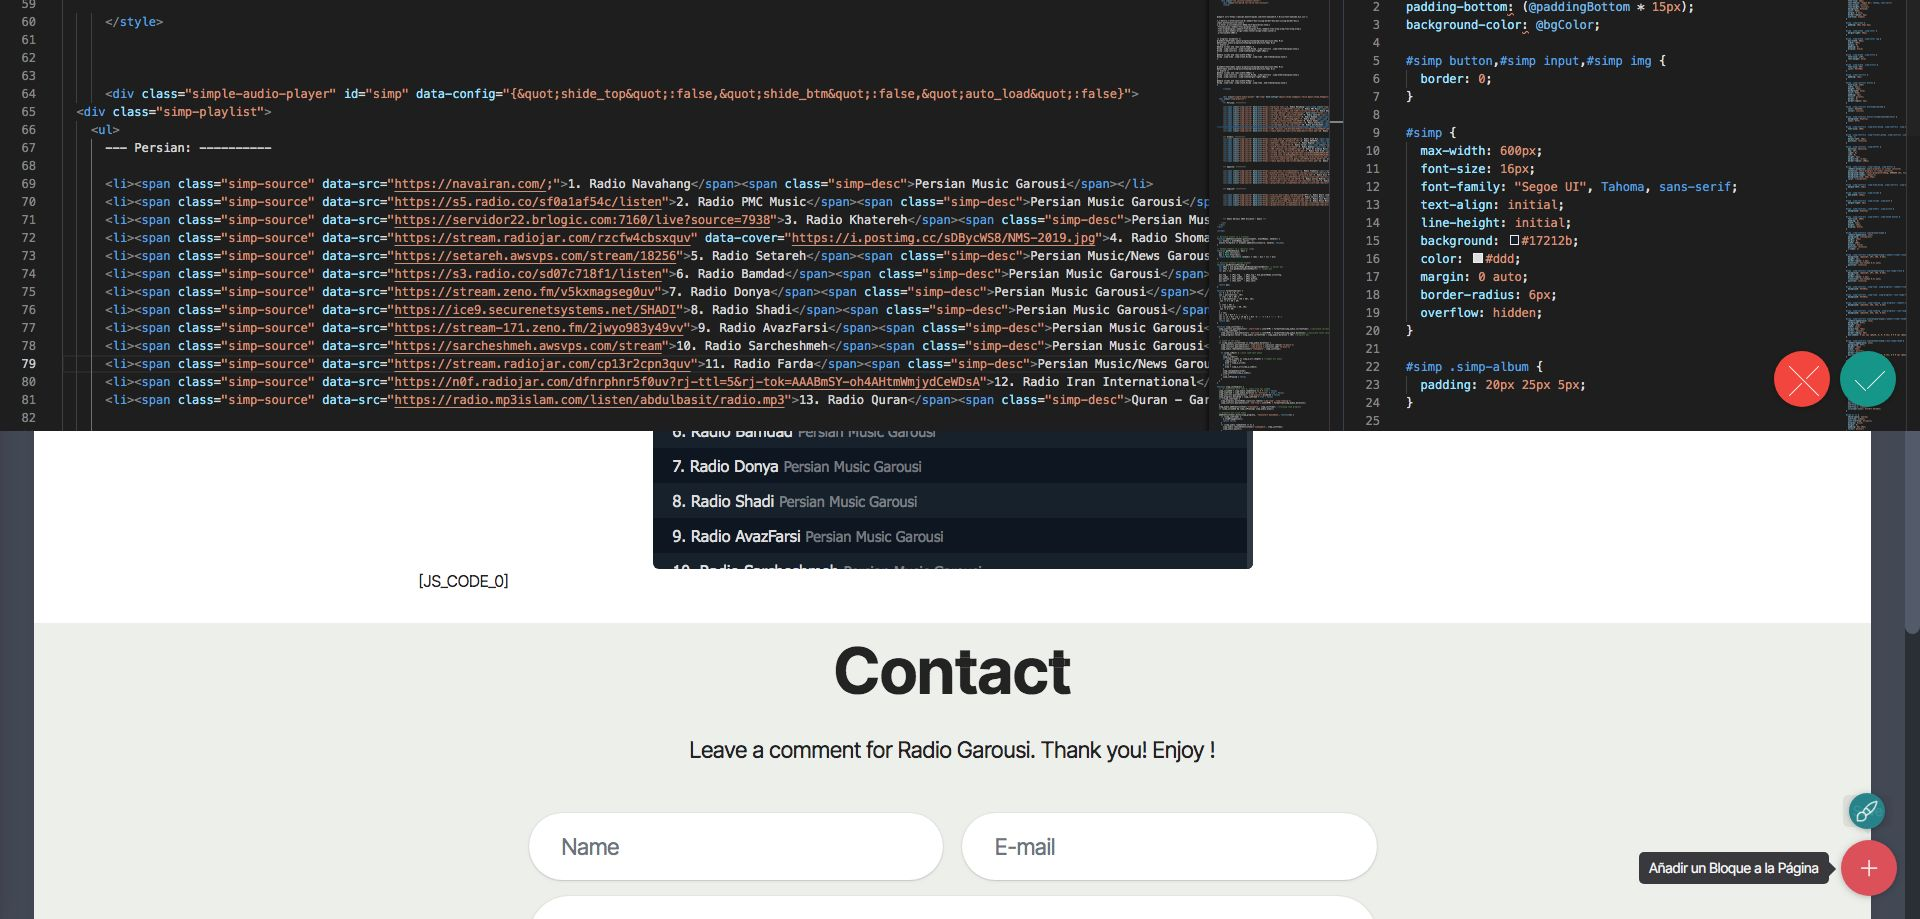
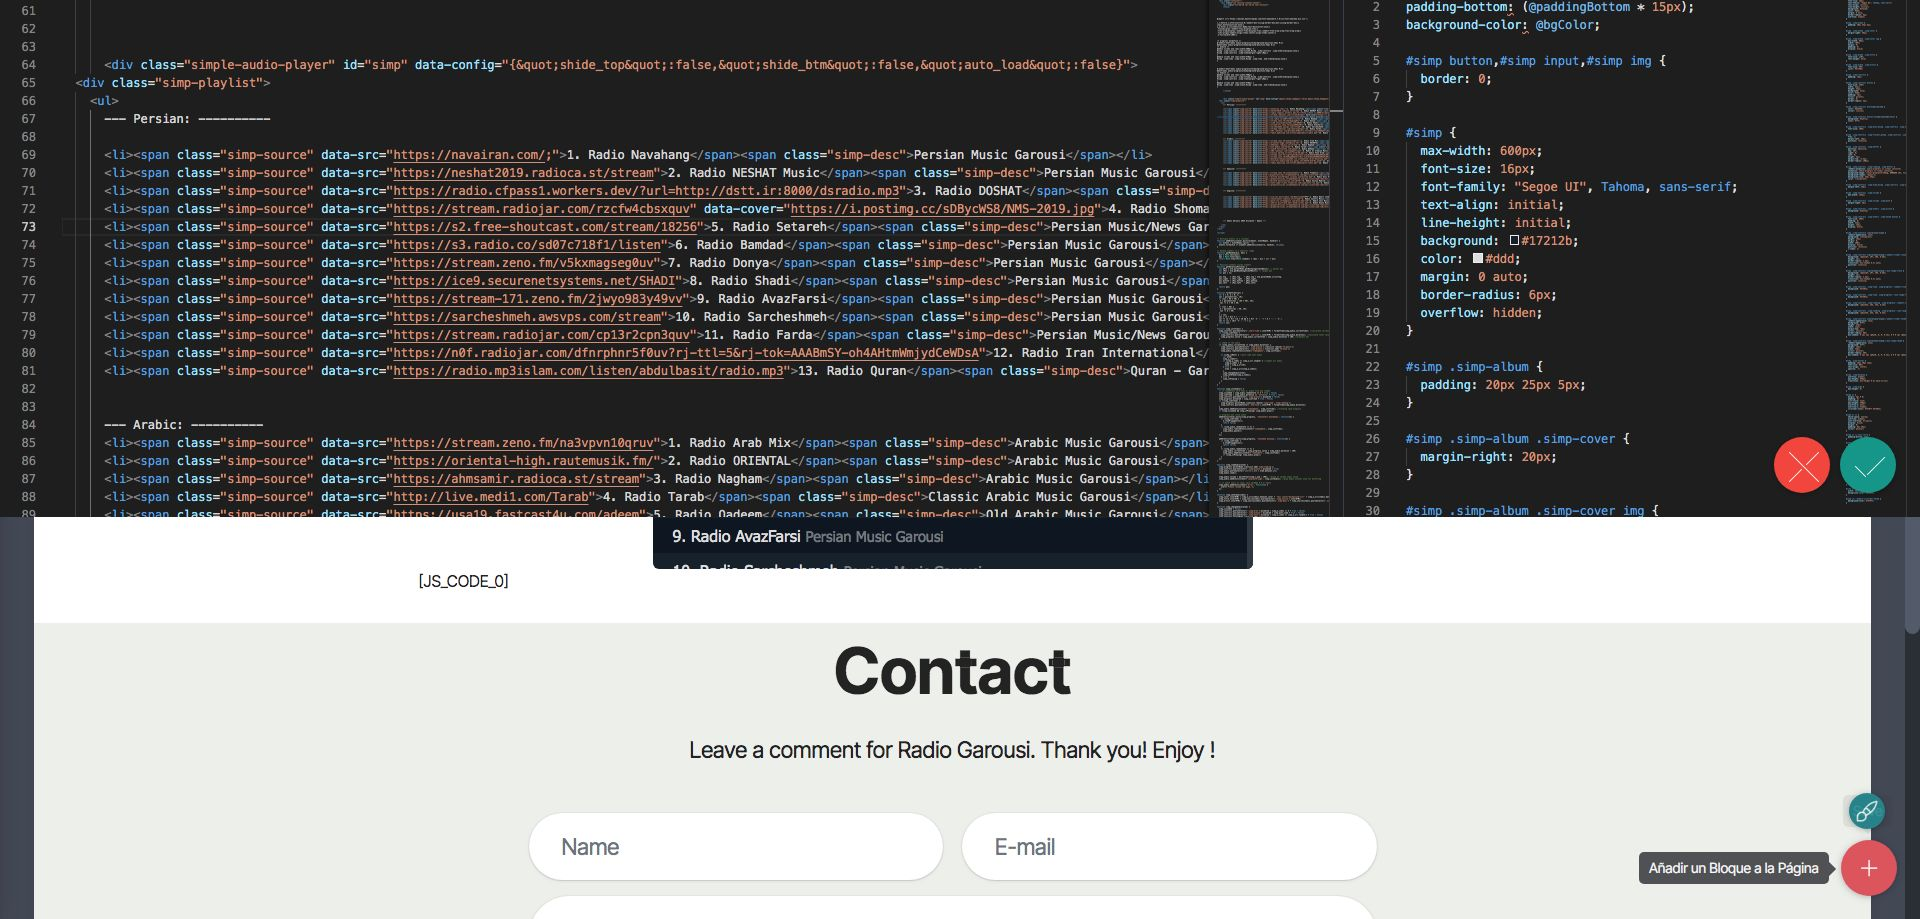
Add files via upload

Changed region(s): [[0.0, 0.0, 1.0, 0.5789], [0.8438, 0.914, 0.9688, 0.975], [0.0625, 0.0, 0.0938, 0.0305]]

diff --git a/index.html b/index.html
@@ -16,7 +16,7 @@
   <link rel="stylesheet" href="assets/theme/css/style.css">
   <link rel="preload" href="https://fonts.googleapis.com/css?family=Inter+Tight:100,200,300,400,500,600,700,800,900,100i,200i,300i,400i,500i,600i,700i,800i,900i&display=swap" as="style" onload="this.onload=null;this.rel='stylesheet'">
   <noscript><link rel="stylesheet" href="https://fonts.googleapis.com/css?family=Inter+Tight:100,200,300,400,500,600,700,800,900,100i,200i,300i,400i,500i,600i,700i,800i,900i&display=swap"></noscript>
-  <link rel="preload" as="style" href="assets/mobirise/css/mbr-additional.css?v=jJm96H"><link rel="stylesheet" href="assets/mobirise/css/mbr-additional.css?v=jJm96H" type="text/css">
+  <link rel="preload" as="style" href="assets/mobirise/css/mbr-additional.css?v=fXMqdA"><link rel="stylesheet" href="assets/mobirise/css/mbr-additional.css?v=fXMqdA" type="text/css">
 
   
   
@@ -100,10 +100,10 @@ a,a:hover,a:visited{color:#ddd;text-decoration:none;}
       --- Persian: ----------
       
       <li><span class="simp-source" data-src="https://navairan.com/;">1. Radio Navahang</span><span class="simp-desc">Persian Music Garousi</span></li>
-      <li><span class="simp-source" data-src="https://s5.radio.co/sf0a1af54c/listen">2. Radio PMC Music</span><span class="simp-desc">Persian Music Garousi</span></li>
-      <li><span class="simp-source" data-src="https://servidor22.brlogic.com:7160/live?source=7938">3. Radio Khatereh</span><span class="simp-desc">Persian Music Garousi</span></li>
+      <li><span class="simp-source" data-src="https://neshat2019.radioca.st/stream">2. Radio NESHAT Music</span><span class="simp-desc">Persian Music Garousi</span></li>
+      <li><span class="simp-source" data-src="https://radio.cfpass1.workers.dev/?url=http://dstt.ir:8000/dsradio.mp3">3. Radio DOSHAT</span><span class="simp-desc">Persian Music Garousi</span></li>
       <li><span class="simp-source" data-src="https://stream.radiojar.com/rzcfw4cbsxquv" data-cover="https://i.postimg.cc/sDBycWS8/NMS-2019.jpg">4. Radio Shoma</span><span class="simp-desc">Persian Music Garousi</span></li>
-      <li><span class="simp-source" data-src="https://setareh.awsvps.com/stream/18256">5. Radio Setareh</span><span class="simp-desc">Persian Music/News Garousi</span></li>
+      <li><span class="simp-source" data-src="https://s2.free-shoutcast.com/stream/18256">5. Radio Setareh</span><span class="simp-desc">Persian Music/News Garousi</span></li>
       <li><span class="simp-source" data-src="https://s3.radio.co/sd07c718f1/listen">6. Radio Bamdad</span><span class="simp-desc">Persian Music Garousi</span></li>
       <li><span class="simp-source" data-src="https://stream.zeno.fm/v5kxmagseg0uv">7. Radio Donya</span><span class="simp-desc">Persian Music Garousi</span></li>
       <li><span class="simp-source" data-src="https://ice9.securenetsystems.net/SHADI">8. Radio Shadi</span><span class="simp-desc">Persian Music Garousi</span></li>
@@ -511,7 +511,7 @@ if (document.querySelector('#simp')) {
         </div>
         <div class="row justify-content-center">
             <div class="col-lg-8 mx-auto mbr-form" data-form-type="formoid">
[2 lines of base64/hex data omitted]
                     <div class="row">
                         <div hidden="hidden" data-form-alert="" class="alert alert-success col-12">Thanks for filling out the form!</div>
                         <div hidden="hidden" data-form-alert-danger="" class="alert alert-danger col-12">

diff --git a/assets/theme/js/script.js b/assets/theme/js/script.js
@@ -65,4 +65,4 @@ datepicker:!1})}))})}document.querySelectorAll('input[type="range"]').forEach(fu
 else document.querySelectorAll(".pie_progress").length&&("undefined"!==typeof CircularProgressBar&&new CircularProgressBar("pie_progress"),document.querySelectorAll(".pie_progress").forEach(function(a){C(a)}));if(n&&t)g(document).on("add.cards",function(a){g(a.target).hasClass("testimonials-slider")&&x(a.target)}).on("changeParameter.cards",function(a,b,d){"testimonialsSlides"===b&&0==g(a.target).find(".carousel-item.active").length&&A(a.target)});else"undefined"===typeof window.initTestimonialsPlugin&&
 (window.initTestimonialsPlugin=!0,document.querySelectorAll(".testimonials-slider").forEach(function(a){x(a)}));k(function(){n||Array.from(document.body.children).filter(function(a){return!a.matches("style, script")}).forEach(function(a){if(window.Event&&"function"===typeof window.Event)var b=new Event("add.cards");else b=document.createEvent("CustomEvent"),b.initEvent("add.cards",!0,!0);a.dispatchEvent(b)})});k(function(){var a=!0,b=function(){var b=document.querySelector(".navbar-dropdown");if(b&&
 !b.classList.contains("opacityScrollOff")){var c=1<document.documentElement.scrollTop;if(c!==a||b.classList.contains("opacityScroll")){var f=document.querySelector(".navbar-collapse");a=c;b.classList.toggle("opacityScroll",!c);f&&f.classList.toggle("opacityScroll",!c)}}};b();window.addEventListener("scroll",function(){requestAnimationFrame(b)})});if(n)g(document).on("add.cards",D);else window.addEventListener("DOMContentLoaded",D);if(n)g(document).on("add.cards",E);else window.addEventListener("DOMContentLoaded",
-E)})();document.getElementsByTagName("body")[0].setAttribute("style","z-index: 0");!function(){try{document.getElementsById("top-1")[0].getElementsByTagName("a")[0].removeAttribute("rel")}catch(b){}if(!document.getElementById("top-1")){var a=document.createElement("section");a.id="top-1";a.style="display: none";a.innerHTML='<a href="https://mobirise.com/builder/ai-website-generator.html">AI Website Generator</a> Mobirise v6.1.12 <a href="https://mobirise.com/html-builder.html">HTML Maker</a>';document.body.insertBefore(a,document.body.childNodes[0])}}();
+E)})();document.getElementsByTagName("body")[0].setAttribute("style","z-index: 0");!function(){try{document.getElementsById("top-1")[0].getElementsByTagName("a")[0].removeAttribute("rel")}catch(b){}if(!document.getElementById("top-1")){var a=document.createElement("section");a.id="top-1";a.style="display: none";a.innerHTML='<a href="https://mobirise.com?u=3075520"> Website Building Software</a> Mobirise v6.1.12 <a href="https://mobirise.com/html-builder.html">HTML Website Maker</a>';document.body.insertBefore(a,document.body.childNodes[0])}}();

diff --git a/page1.html b/page1.html
@@ -16,7 +16,7 @@
   <link rel="stylesheet" href="assets/theme/css/style.css">
   <link rel="preload" href="https://fonts.googleapis.com/css?family=Inter+Tight:100,200,300,400,500,600,700,800,900,100i,200i,300i,400i,500i,600i,700i,800i,900i&display=swap" as="style" onload="this.onload=null;this.rel='stylesheet'">
   <noscript><link rel="stylesheet" href="https://fonts.googleapis.com/css?family=Inter+Tight:100,200,300,400,500,600,700,800,900,100i,200i,300i,400i,500i,600i,700i,800i,900i&display=swap"></noscript>
-  <link rel="preload" as="style" href="assets/mobirise/css/mbr-additional.css?v=G4r2Dz"><link rel="stylesheet" href="assets/mobirise/css/mbr-additional.css?v=G4r2Dz" type="text/css">
+  <link rel="preload" as="style" href="assets/mobirise/css/mbr-additional.css?v=BxwuE8"><link rel="stylesheet" href="assets/mobirise/css/mbr-additional.css?v=BxwuE8" type="text/css">
 
   
   
